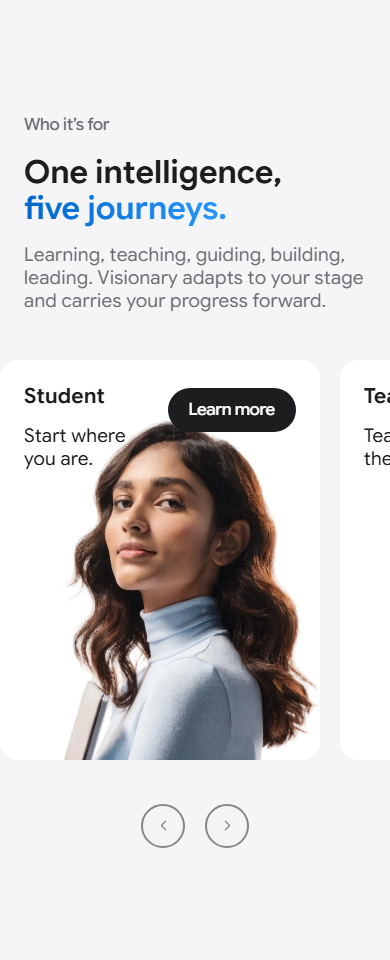
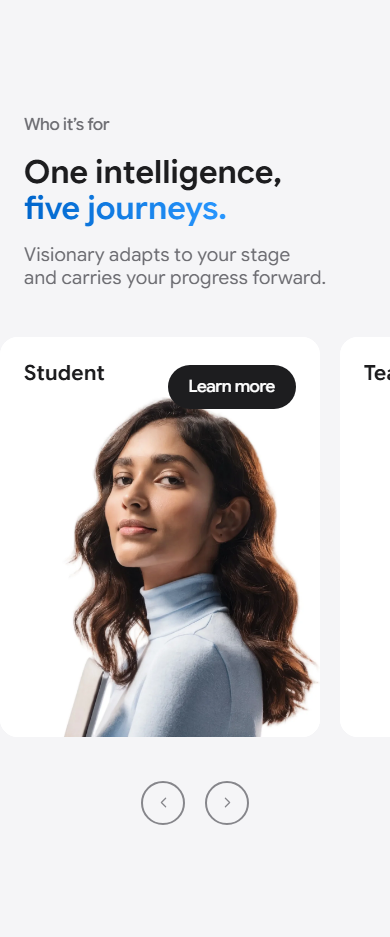
FHE-01 (V10): the journeys tile reads name + door only
Founder directives: the sub loses the verbs fragment ('Learning,
teaching, guiding, building, leading.' — already retired in the sub's
current text), and the cards drop their copy lines entirely — the tile
reads the name and the ink door, nothing else. Premium and clean, not
text-heavy: the person is the tile's only content beside its name and
its door.

Verified: capture reads name + pill + the portrait; quality gate PASS;
871/871 tests after scope refresh; lint clean.

diff --git a/visionary-app/frontend/src/components/landing/persona/premium/PremiumExploreSection.jsx b/visionary-app/frontend/src/components/landing/persona/premium/PremiumExploreSection.jsx
@@ -51,13 +51,6 @@ const PremiumExploreCard = React.memo(function PremiumExploreCard({ category, im
           >
             {category.chip}
           </h3>
-          <p
-            data-type="value-body"
-            className="mt-1.5 text-balance"
-            style={{ maxWidth: "22ch" }}
-          >
-            {category.copy}
-          </p>
         </div>
         <span
           className="mt-1 inline-flex h-11 shrink-0 items-center justify-center rounded-full bg-[#1d1d1f] px-[21px] text-[17px] font-medium leading-[1.176] tracking-[-0.011em] text-white transition-colors duration-200 hover:bg-[#272729] focus-visible:outline-none focus-visible:ring-2 focus-visible:ring-[#0066cc] focus-visible:ring-offset-2 sm:h-9 lg:h-11 lg:text-[18px]"
